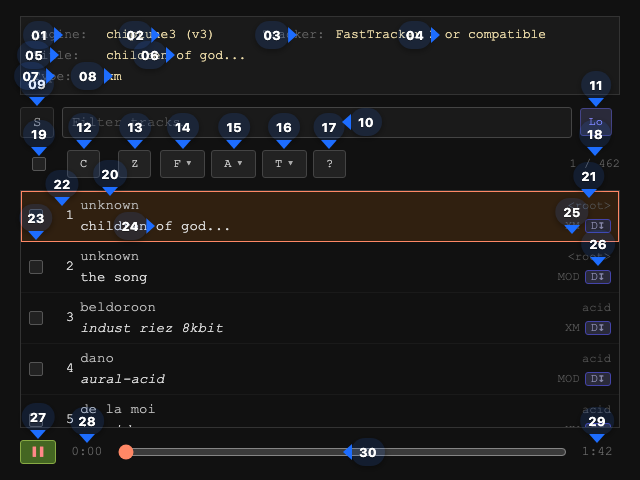
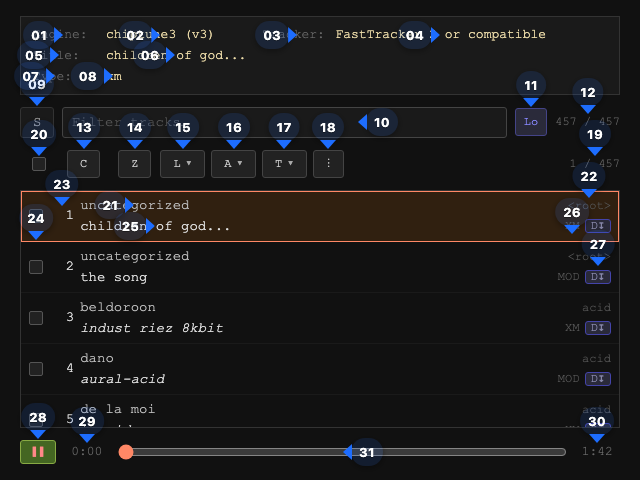
user playlists

diff --git a/js/folder-panel.js b/js/folder-panel.js
@@ -60,9 +60,13 @@ export function setFolderChangeHandler(fn) { _onFolderChange = fn; }
 
 export async function buildFolderPanel(folders) {
   const sorted = [...folders].sort((a, b) => a.localeCompare(b, undefined, { sensitivity: 'base' }));
-  // System folders (e.g. 'unknown') are hidden from the List panel by default;
-  // only include them if the user has opted in via the manager's visibility panel.
-  const visibleSorted = sorted.filter(name => !pm.isSystemFolder(name) || pm.isSystemFolderVisible(name));
+  // Only include lists that are visible in Playlist Manager's visibility panel.
+  // System folders (e.g. 'unknown') are additionally gated by system visibility.
+  const visibleSorted = sorted.filter((name) => {
+    if (pm.isListHidden(pm.hiddenListKeyForFolder(name))) return false;
+    if (pm.isSystemFolder(name) && !pm.isSystemFolderVisible(name)) return false;
+    return true;
+  });
 
   const prevAllFolderCount = S._allFolderOptions.size;
   const hadAllFoldersSelected = prevAllFolderCount > 0 && S.selectedFolders.size === prevAllFolderCount;

diff --git a/js/filter.js b/js/filter.js
@@ -13,8 +13,9 @@ export function applyFilter() {
   const raw = elFilter.value.trim();
   const terms = raw.toLowerCase().split(/\s+/).filter(Boolean);
   const totalLists = S._allFolderOptions.size + S._allPlaylistOptions.size;
-  // In local mode, list visibility defines the base dataset and must always apply.
-  const listsActive = S.searchMode === 'local' && totalLists > 0;
+  // In local mode, list visibility defines the base dataset and must always apply,
+  // including the "no visible lists" case (which should yield zero visible rows).
+  const listsActive = S.searchMode === 'local';
   const artistsActive = S.selectedArtists.size > 0 && S.selectedArtists.size < S._allArtistOptions.size;
 
   const inSelectedPlaylist = (entry) => {
@@ -100,7 +101,7 @@ export function applyFilter() {
   }
 
   const fmtActive = S.selectedFormats.size > 0 && S.selectedFormats.size < S._allFormatOptions.size;
-  elFilterCnt.textContent = (terms.length || listsActive || artistsActive || fmtActive)
+  elFilterCnt.textContent = (terms.length || listsActive || artistsActive || fmtActive || totalLists === 0)
     ? `${visible} / ${scopedTotal}` : '';
 
   // Re-number visible rows relative to the displayed list

diff --git a/js/doc-overlay.js b/js/doc-overlay.js
@@ -439,6 +439,7 @@ function popupHTML() {
 }
 
 function openUIMapPopup() {
+  ensureHighlighterStyle();
   if (_uiMapPopup && !_uiMapPopup.closed) {
     _uiMapPopup.focus();
     return;
@@ -604,7 +605,7 @@ optionsPanel?.addEventListener('click', (e) => {
   closeOptionsPanel();
   const action = opt.dataset.action;
   if (action === 'help') showHelp();
-  else if (action === 'live-help') window.open('https://github.com/mike-seger/retro-tracker-players/issues', '_blank');
+  else if (action === 'live-help') openUIMapPopup();
   else if (action === 'playlists') openPlaylistOverlay();
 });
 

diff --git a/js/refine.js b/js/refine.js
@@ -31,7 +31,7 @@ export async function populateFolderPanel() {
 
 export function populateLocalArtistPanel() {
   const totalLists = S._allFolderOptions.size + S._allPlaylistOptions.size;
-  const listsActive = totalLists > 0;
+  const listsActive = true;
   const raw = elFilter.value.trim();
   const terms = raw.toLowerCase().split(/\s+/).filter(Boolean);
   const artists = new Set();

diff --git a/doc/README.md b/doc/README.md
@@ -3,7 +3,7 @@
 <!-- AUTO:DOC_META:START -->
 | Version | Updated |
 |:--|:--|
-| 0.9.7-8 | 2026-05-03 13:53 |
+| 0.9.8-1 | 2026-05-03 16:46 |
 <!-- AUTO:DOC_META:END -->
 
 A browser-based player for classic tracker module formats (MOD, XM, S3M, IT, AHX, SID) with local file lists and Modland search.
@@ -32,29 +32,30 @@ Description of the UI elements from the screenshot.
 | 09 | Share / copy link | #share-btn |
 | 10 | Search tracks … | #filter |
 | 11 | Source | #search-mode-btn |
-| 12 | Copy selected track links to clipboard | #btn-copy |
-| 13 | Download selected tracks as ZIP | #btn-zip |
-| 14 | Select track group | #refine-folder-btn |
-| 15 | Select artist | #refine-artist-btn |
-| 16 | Select format | #refine-format-btn |
-| 17 | Help / About | #help-btn |
-| 18 | Track number / total found | #track-pos |
-| 19 | Toggle all, none, or restore track selection | #sel-bulk-cb |
-| 20 | Track artist | body > div#player > ul#playlist > li.current > div.row-top > span.artist |
-| 21 | Track group | body > div#player > ul#playlist > li.current > div.row-top > span.folder |
-| 22 | Track index | html > body > div#player > ul#playlist > li.current > span.idx |
-| 23 | Track selector checkbox | html > body > div#player > ul#playlist > li.current > input.sel-cb |
-| 24 | Track title | body > div#player > ul#playlist > li.current > div.row-bot > span.title |
-| 25 | Track format | body > div#player > ul#playlist > li.current > div.row-bot > span.ext |
-| 26 | Download track | body > div#player > ul#playlist > li.current > div.row-bot > button.r-dl |
-| 27 | Play / Pause | #btn-play |
-| 28 | Track Time | #time |
-| 29 | Track Length | #duration |
-| 30 | Track seekbar | #seek |
-| 31 | Browse random tracks | #ml-random |
-| 32 | Result page | #refine-range-btn |
-| 33 | Add all search results | #ml-add-all |
-| 34 | Add track | button.r-add (first row) |
+| 12 | Tracks found / total | #filter-count |
+| 13 | Copy selected track links to clipboard | #btn-copy |
+| 14 | Download selected tracks as ZIP | #btn-zip |
+| 15 | Select list | #refine-folder-btn |
+| 16 | Select artist | #refine-artist-btn |
+| 17 | Select format | #refine-format-btn |
+| 18 | Options | #help-btn |
+| 19 | Track number / total found | #track-pos |
+| 20 | Toggle all, none, or restore track selection | #sel-bulk-cb |
+| 21 | Track artist | body > div#player > ul#playlist > li.current > div.row-top > span.artist |
+| 22 | Track group | body > div#player > ul#playlist > li.current > div.row-top > span.folder |
+| 23 | Track index | html > body > div#player > ul#playlist > li.current > span.idx |
+| 24 | Track selector checkbox | html > body > div#player > ul#playlist > li.current > input.sel-cb |
+| 25 | Track title | body > div#player > ul#playlist > li.current > div.row-bot > span.title |
+| 26 | Track format | body > div#player > ul#playlist > li.current > div.row-bot > span.ext |
+| 27 | Download track | body > div#player > ul#playlist > li.current > div.row-bot > button.r-dl |
+| 28 | Play / Pause | #btn-play |
+| 29 | Track Time | #time |
+| 30 | Track Length | #duration |
+| 31 | Track seekbar | #seek |
+| 32 | Browse random tracks | #ml-random |
+| 33 | Result page | #refine-range-btn |
+| 34 | Add all search results | #ml-add-all |
+| 35 | Add track | button.r-add (first row) |
 
 </div>
 <!-- AUTO:UI_ELEMENT_TABLE:END -->

diff --git a/README.md b/README.md
@@ -3,7 +3,7 @@
 <!-- AUTO:DOC_META:START -->
 | Version | Updated |
 |:--|:--|
-| 0.9.7-8 | 2026-05-03 13:53 |
+| 0.9.8-1 | 2026-05-03 16:46 |
 <!-- AUTO:DOC_META:END -->
 
 A single-page browser-based chiptune player for the golden age of demoscene music, from C64 SID chips to Amiga tracker modules. It includes built-in local playlists and instant access to the Modland archive with 225K+ compatible tracker modules. Results can be narrowed with smart filters, and you can build your own custom lists from what you find.

diff --git a/todos/TODO.md b/todos/TODO.md
@@ -1,2 +1,4 @@
 - cannot resume audio on iOS after screen lock (broken). it can be resolve by manually reloading the page. can this be automated? if the unlock can be detected, maybe a resume audio confirmation dialog could do the trick
+- "User Interface Highlighter" should remove the highlight from the UI when closed
 - an empty (multi-)select button should be display:none, e.g. when there is no range see (![h(multi)-select-empty](todos/(multi)-select-empty.png)
+- in "User Interface Highlighter" when navigating through row by row using arrow up/sown it sometimes sleects the completely wrong element in the UI